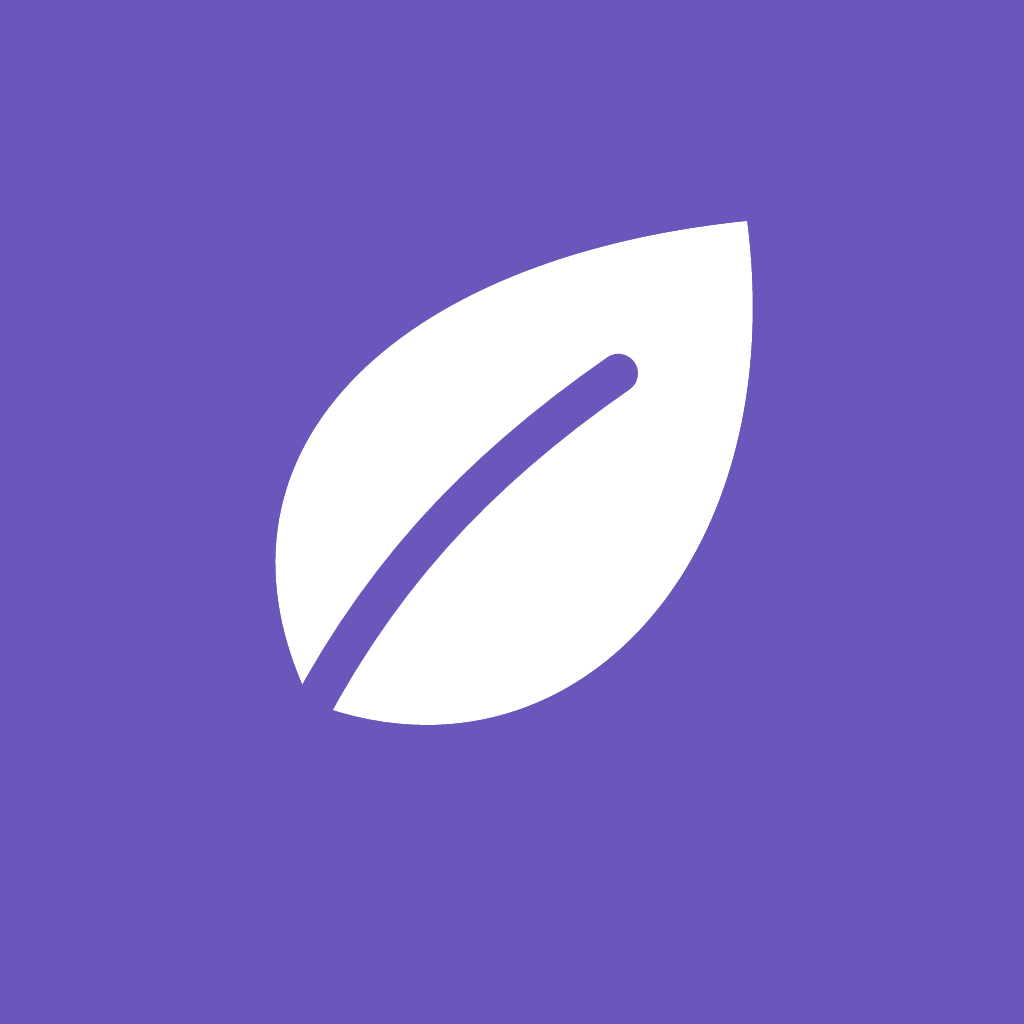
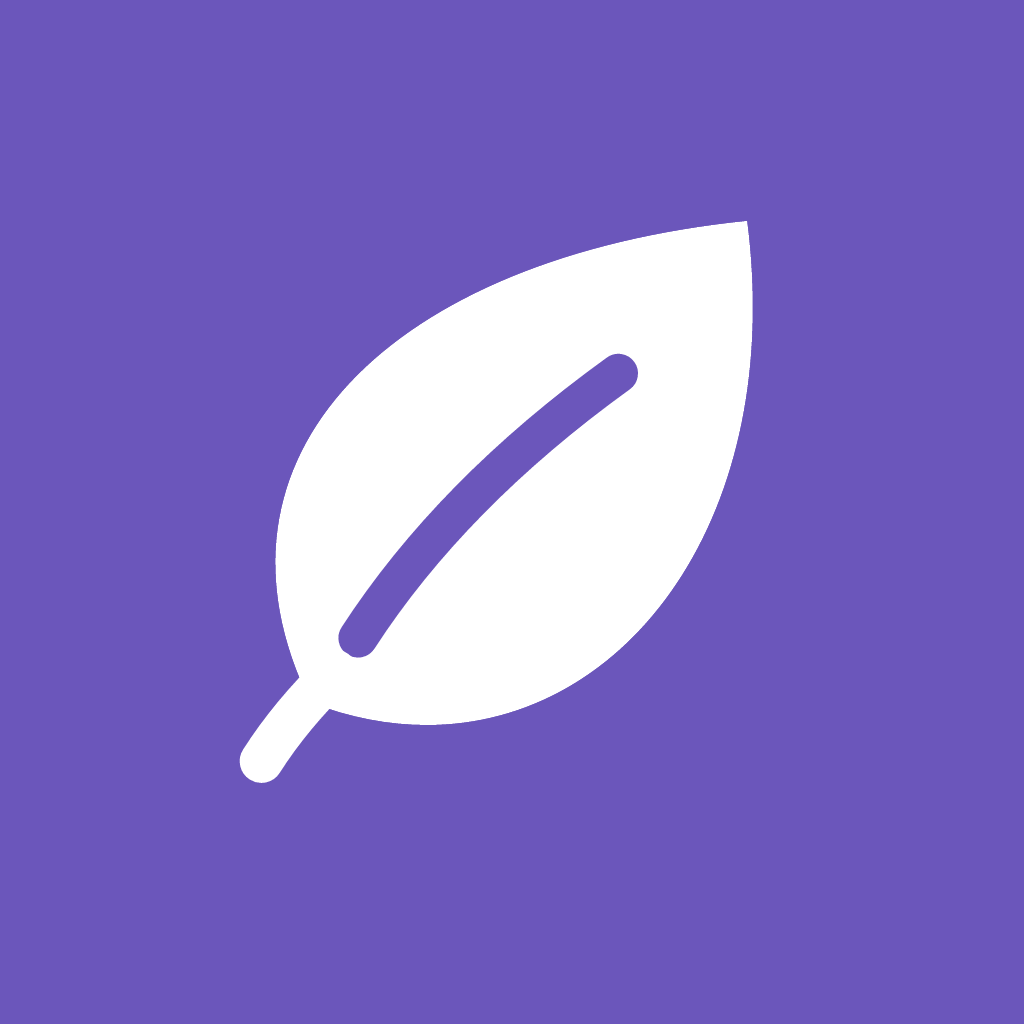
Restore Still leaf stem and brand the loading screen

diff --git a/src/components/AppGate.tsx b/src/components/AppGate.tsx
@@ -1,5 +1,7 @@
 import { ActivityIndicator, View } from "react-native";
+import { SafeAreaView } from "react-native-safe-area-context";
 import { Button, Empty, Screen, Txt } from "./ui";
+import { StillMark } from "./StillMark";
 import { useApp } from "../state/AppProvider";
 import { useTheme } from "../theme/ThemeProvider";
 export function AppGate({ children }: React.PropsWithChildren) {
@@ -7,12 +9,27 @@ export function AppGate({ children }: React.PropsWithChildren) {
   const { colors } = useTheme();
   if (loading)
     return (
-      <Screen>
-        <View style={{ paddingVertical: 100, alignItems: "center", gap: 16 }}>
-          <ActivityIndicator size="large" color={colors.primary} />
-          <Txt muted>Opening your space…</Txt>
+      <SafeAreaView
+        style={{
+          flex: 1,
+          alignItems: "center",
+          justifyContent: "center",
+          padding: 24,
+          backgroundColor: colors.background,
+        }}
+      >
+        <StillMark size={96} />
+        <View style={{ alignItems: "center", gap: 12, marginTop: 24 }}>
+          <ActivityIndicator color={colors.primary} />
+          <Txt
+            muted
+            accessibilityLiveRegion="polite"
+            style={{ textAlign: "center" }}
+          >
+            Opening your space…
+          </Txt>
         </View>
-      </Screen>
+      </SafeAreaView>
     );
   if (error && !initialized)
     return (

diff --git a/src/app/(tabs)/index.tsx b/src/app/(tabs)/index.tsx
@@ -14,6 +14,7 @@ import {
 import { ProgressRing } from "../../components/ProgressRing";
 import { HabitRow } from "../../components/HabitRow";
 import { Disclosure } from "../../components/Disclosure";
+import { StillMark } from "../../components/StillMark";
 import { useApp } from "../../state/AppProvider";
 import { useTheme } from "../../theme/ThemeProvider";
 import { habitStats } from "../../domain/habits";
@@ -57,7 +58,7 @@ export default function Today() {
     <Screen contentContainerStyle={{ gap: 16, paddingTop: 16 }}>
       <View style={s.row}>
         <View style={{ flexDirection: "row", gap: 7, alignItems: "center" }}>
-          <Ionicons name="leaf" color={colors.primary} size={21} />
+          <StillMark size={24} />
           <Txt weight="700" size={21}>
             still
           </Txt>

diff --git a/src/components/StillMark.tsx b/src/components/StillMark.tsx
@@ -1,0 +1,16 @@
+import { Image } from "react-native";
+import { useTheme } from "../theme/ThemeProvider";
+
+const leaf = require("../../assets/splash-icon.png");
+
+export function StillMark({ size }: { size: number }) {
+  const { colors } = useTheme();
+  return (
+    <Image
+      accessible={false}
+      source={leaf}
+      resizeMode="contain"
+      style={{ width: size, height: size, tintColor: colors.primary }}
+    />
+  );
+}

diff --git a/src/app/(tabs)/settings.tsx b/src/app/(tabs)/settings.tsx
@@ -106,7 +106,7 @@ export default function Settings() {
         </Txt>
         <Txt muted>One small step, every day.</Txt>
         <Txt size={13} muted>
-          Your habits stay on this device. Version 1.2.0
+          Your habits stay on this device. Version 1.2.1
         </Txt>
         <Txt size={13} muted>
           Works without internet. No account or cloud sync. The Android update

diff --git a/releases/README.md b/releases/README.md
@@ -1,10 +1,11 @@
-# Still 1.2.0 for Android
+# Still 1.2.1 for Android
 
-Sign in to GitHub on your phone, then open the [Still 1.2.0 release](https://github.com/eerihyppanen/Still/releases/tag/v1.2.0). Download `Still-1.2.0.apk` from Assets, open it, and choose Update or Install. **Keep the old app installed** so Android retains its local history. This build uses the same package and signing certificate as the previous test APKs.
+Sign in to GitHub on your phone and open the [Still 1.2.1 release](https://github.com/eerihyppanen/Still/releases/tag/v1.2.1). Download `Still-1.2.1.apk` from Assets, open it, and choose Update or Install. **Keep the old app installed** so Android retains its local history. This build uses the same package and signing certificate as the previous test APKs.
 
 - On Today, expand the completed row to review or undo check-ins.
 - In History, the weekly recap shows your progress, most consistent routine, and hardest past days.
-- In Habits → Reorder, drag the grip to change the order. Still also has a refreshed leaf icon and splash artwork.
+- In Habits → Reorder, drag the grip to change the order.
+- The launcher icon, splash artwork, loading view, and Today header use the same leaf with a short stem.
 - In a habit's edit form, choose Anytime, Morning, Afternoon or Evening.
 - Expand a habit notification for Done and Snooze 10 min.
 - Long-press your home screen → Widgets → Still → Still — Today to add the compact widget. It shows the saved date/progress; Open Still refreshes it and opens the app for check-ins.

diff --git a/VERIFICATION.md b/VERIFICATION.md
@@ -2,6 +2,12 @@
 
 Dates: October 27–November 4, 2026.
 
+## Still 1.2.1 Android APK — November 4, 2026
+
+- The leaf stem is present in the regenerated launcher and splash artwork. The Android adaptive foreground fits within a 295-pixel radius on the 1024-pixel canvas. The loading view and Today header use the same leaf asset.
+- `npm run check` passed strict TypeScript, Expo lint, and all 89 tests. Gradle assembly and Android release lint passed.
+- Verified the APK signature matches 1.2.0 and installed it as an update on the Pixel 7 emulator. Cold-launch recordings show the stem in both the Android splash and the in-app loading view. The launch completed on Today. The APK is version code 4 and excludes Android internet and network-state permissions.
+
 ## Still 1.2.0 Android APK — November 4, 2026
 
 - `npm run check` passed strict TypeScript, Expo lint, and all 89 tests. The local release build passed Gradle assembly and Android release lint.
